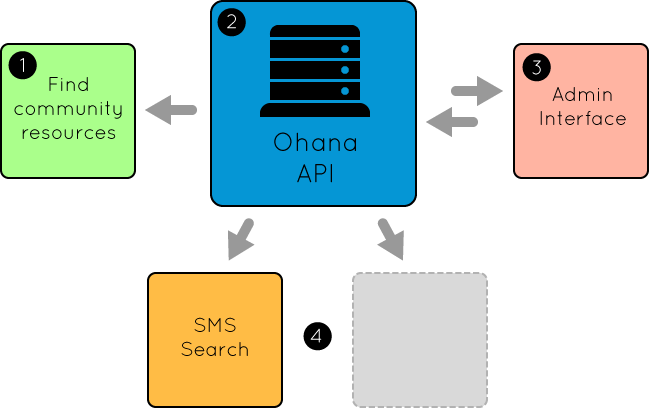
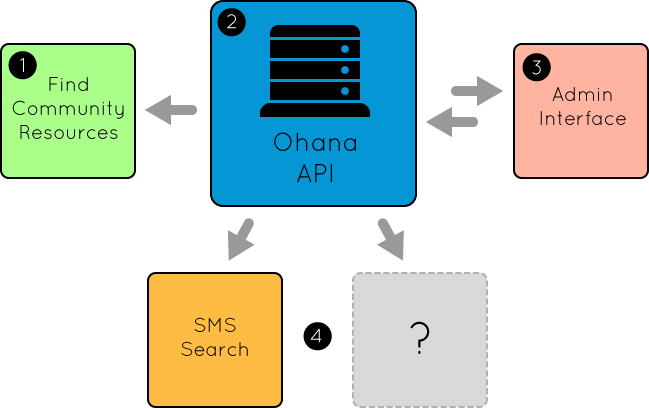
Updates to copy and diagram
Edits to make context of project clearer.

Changed region(s): [[0.0, 0.2353, 0.2157, 0.3529], [0.6471, 0.7941, 0.678, 0.8529]]

diff --git a/index.html b/index.html
@@ -58,7 +58,7 @@
                     <p>For communities to thrive, every member of the community needs to know what services are available to them in times of need.</p>
                 </div>
                 <div>
-                    <h2>Ohana API—An OS directory of services</h2>
+                    <h2>Ohana API—An open directory of services</h2>
                     <div class="databaseimg"></div>
                     <p>The Ohana API aims to provide an open source (OS) read/write database of community organizations & services.</p>
                 </div>
@@ -73,7 +73,7 @@
                 </section>
                 <section id="diagram-explainer">
                     <h2>Road Map</h2>
-                    <p>The planned development roadmap of the Ohana API involves the creation of the read/write API as well as demonstration apps showing what's possible with the API.</p>
+                    <p>The Ohani API is a project from the <a href="http://codeforamerica.org/2013-partners/san-mateo-county/" target="_blank">San Mateo County</a> team of <a href="http://codeforamerica.org" target="_blank">Code for America</a> fellows aiming to create open access to community social services, with an initial emphasis on food security.</p> <p>The planned development roadmap of the Ohana API involves the creation of the read/write API as well as demonstration apps showing what's possible with the API.</p>
                     <ol>
                         <li>
                             <span class="number number-1"></span>
@@ -92,7 +92,7 @@
                         </li>
                         <li>
                             <span class="number number-4"></span>
-                            <span>Later 2013: <strong>Expand demonstration apps</strong>: Additional demonstrations, such as an SMS (text messaging) search interface for database could be developed to show what's possible.
+                            <span>Later 2013: <strong>Community-built innovation/apps</strong>: Additional applications, such as an SMS (text messaging) search interface for database could be developed to use the data provided by the Ohana API.
                             </span>
                         </li>
 
